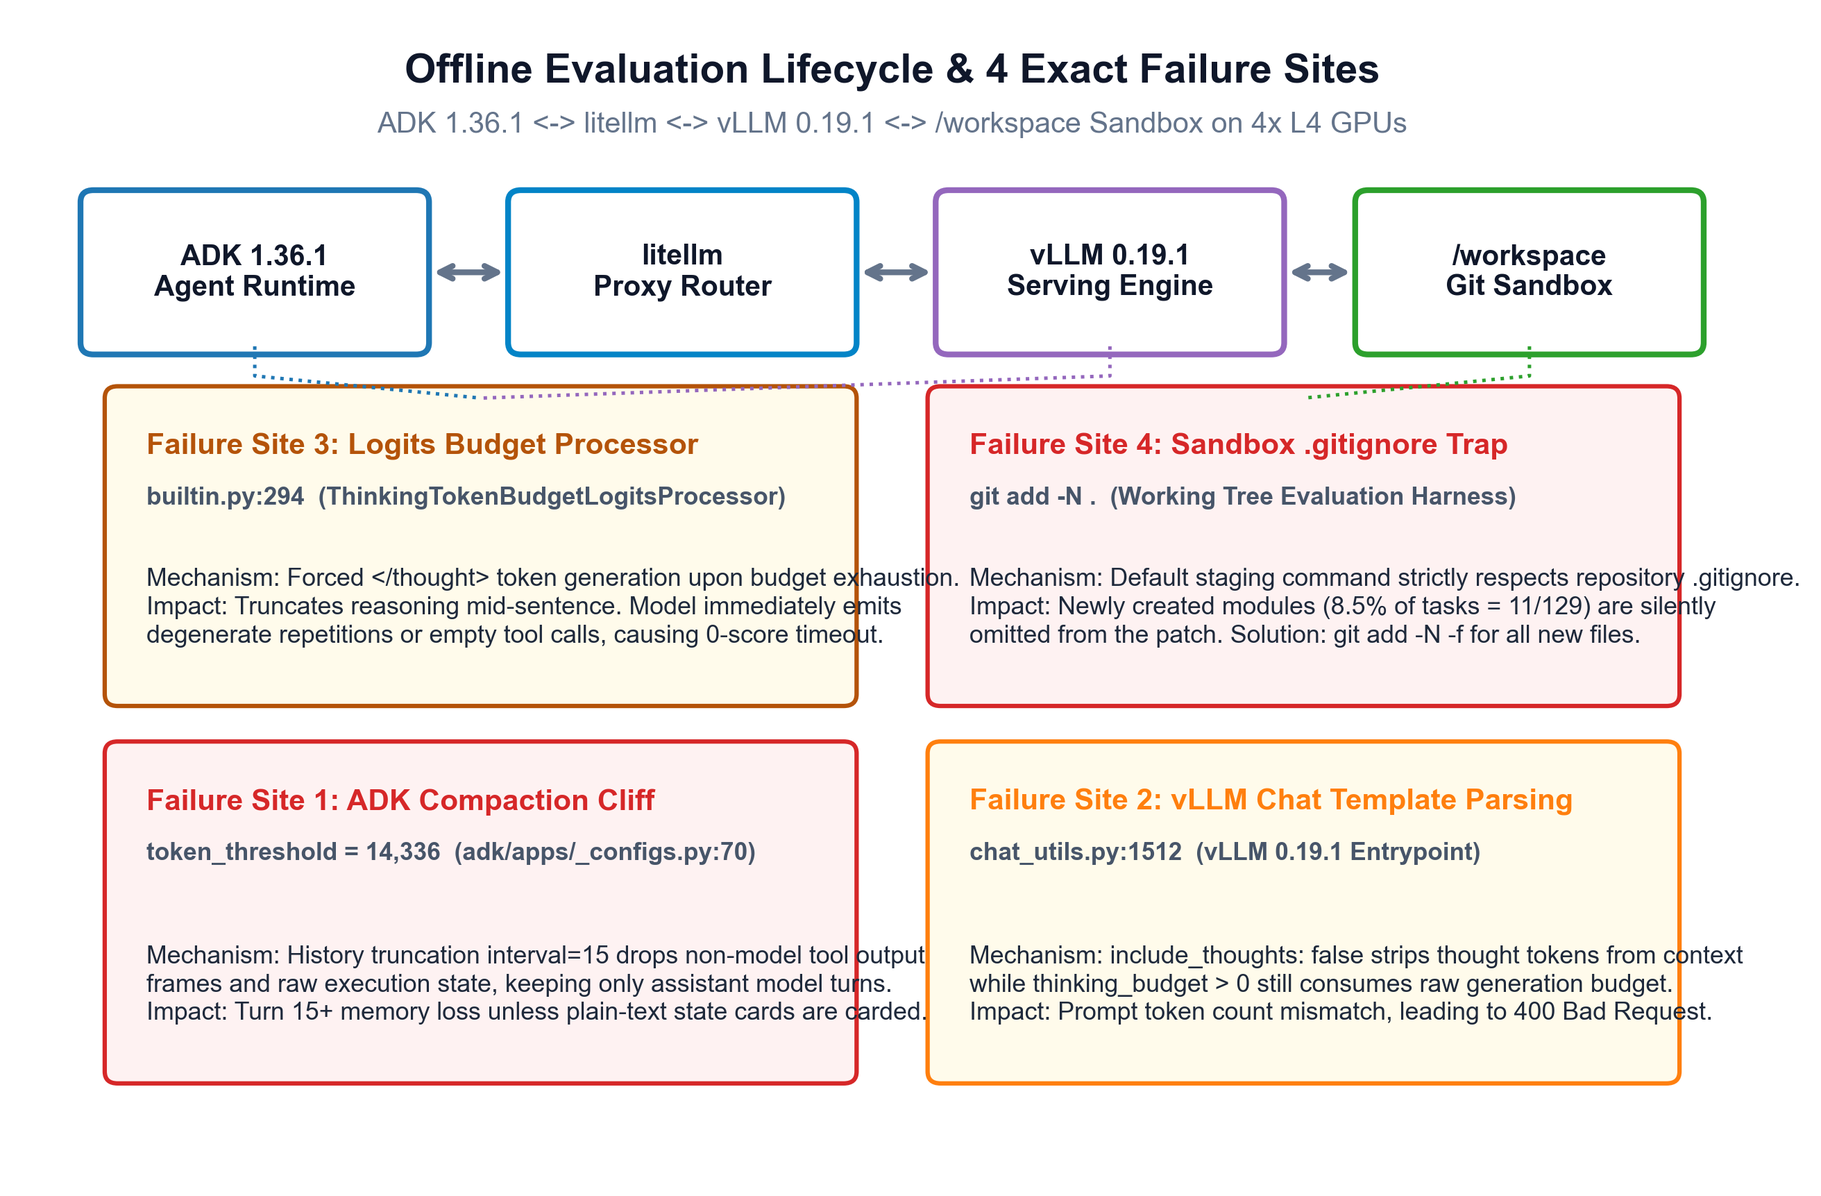
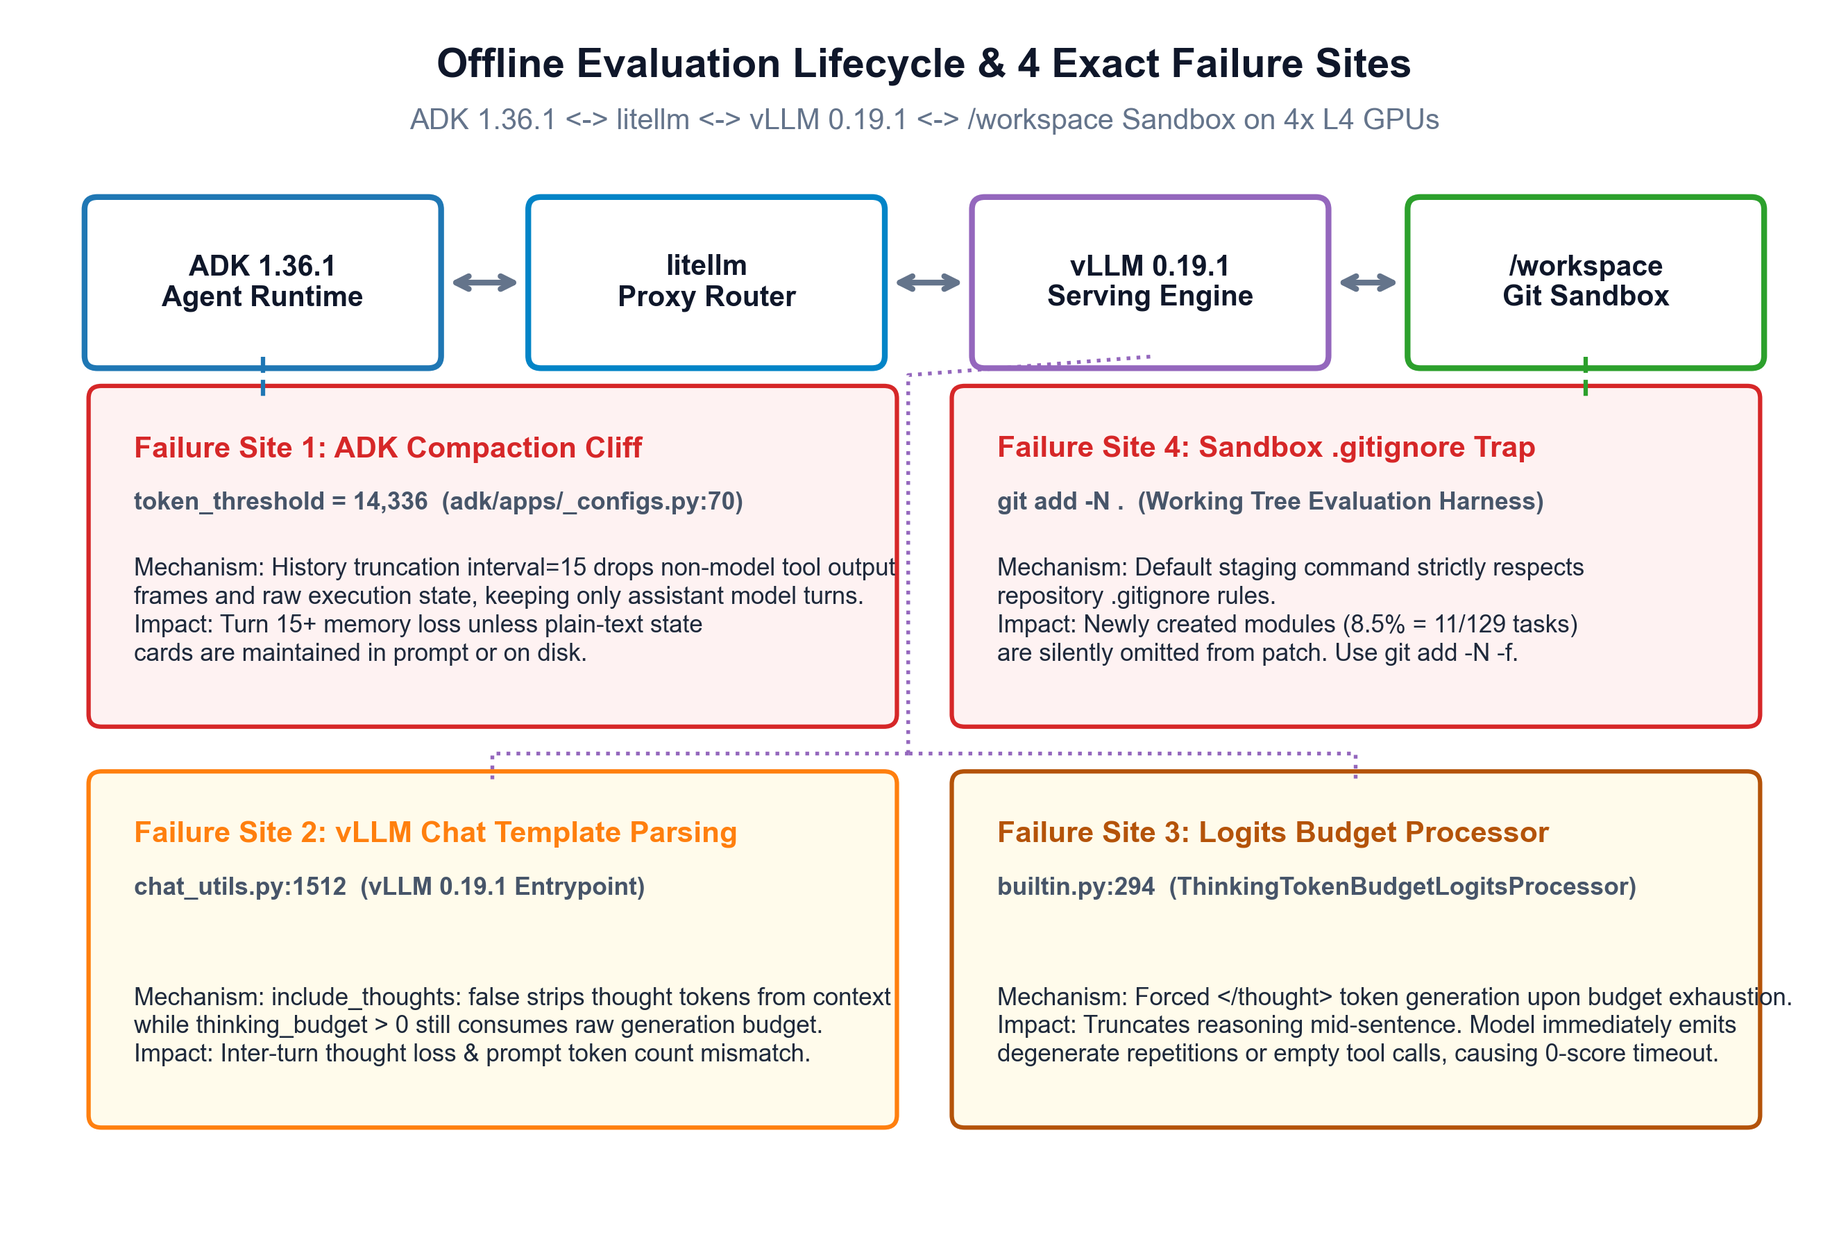
fix(figures): eliminate all text collisions and box overlaps across publication figures 1-5

Changed region(s): [[0.0312, 0.1538, 0.9688, 0.9228], [0.2188, 0.0308, 0.7812, 0.123], [0.0938, 0.1846, 0.1875, 0.2461]]

diff --git a/scripts/generate_paper_figures.py b/scripts/generate_paper_figures.py
@@ -192,25 +192,25 @@ def render_fig0_card_thumbnail():
 # FIGURE 1: Harness Architecture & 4 Failure Sites
 # ==============================================================================
 def render_fig1_harness_architecture():
-    fig, ax = plt.subplots(figsize=(10.8, 7.2), dpi=300)
+    fig, ax = plt.subplots(figsize=(11.2, 7.5), dpi=300)
     fig.patch.set_facecolor("#ffffff")
     ax.set_facecolor("#fafbfc")
-    ax.set_xlim(0, 10.8)
+    ax.set_xlim(0, 11.2)
     ax.set_ylim(0, 7.8)
     ax.axis("off")
 
     # Title
-    ax.text(5.4, 7.45, "Offline Evaluation Lifecycle & 4 Exact Failure Sites",
+    ax.text(5.6, 7.50, "Offline Evaluation Lifecycle & 4 Exact Failure Sites",
             ha="center", va="center", fontsize=14, weight="bold", color=C_DARK)
-    ax.text(5.4, 7.10, "ADK 1.36.1 <-> litellm <-> vLLM 0.19.1 <-> /workspace Sandbox on 4x L4 GPUs",
+    ax.text(5.6, 7.15, "ADK 1.36.1 <-> litellm <-> vLLM 0.19.1 <-> /workspace Sandbox on 4x L4 GPUs",
             ha="center", va="center", fontsize=10, color="#64748b")
 
     # 4 Main Pipeline Stage Boxes at y = 6.1
     stages = [
-        ("ADK 1.36.1\nAgent Runtime", 1.45, 6.1, 2.0, 0.95, C_BLUE),
-        ("litellm\nProxy Router", 4.10, 6.1, 2.0, 0.95, "#0284c7"),
-        ("vLLM 0.19.1\nServing Engine", 6.75, 6.1, 2.0, 0.95, C_PURPLE),
-        ("/workspace\nGit Sandbox", 9.35, 6.1, 2.0, 0.95, C_GREEN),
+        ("ADK 1.36.1\nAgent Runtime", 1.50, 6.1, 2.05, 0.95, C_BLUE),
+        ("litellm\nProxy Router", 4.25, 6.1, 2.05, 0.95, "#0284c7"),
+        ("vLLM 0.19.1\nServing Engine", 7.00, 6.1, 2.05, 0.95, C_PURPLE),
+        ("/workspace\nGit Sandbox", 9.70, 6.1, 2.05, 0.95, C_GREEN),
     ]
 
     for name, x, y, w, h, col in stages:
@@ -221,55 +221,61 @@ def render_fig1_harness_architecture():
 
     # Connecting bi-directional arrows
     arrow_props = dict(arrowstyle="<->", color="#64748b", lw=2, shrinkA=6, shrinkB=6)
-    ax.annotate("", xy=(2.45, 6.1), xytext=(3.10, 6.1), arrowprops=arrow_props)
-    ax.annotate("", xy=(5.10, 6.1), xytext=(5.75, 6.1), arrowprops=arrow_props)
-    ax.annotate("", xy=(7.75, 6.1), xytext=(8.35, 6.1), arrowprops=arrow_props)
+    ax.annotate("", xy=(2.55, 6.1), xytext=(3.20, 6.1), arrowprops=arrow_props)
+    ax.annotate("", xy=(5.30, 6.1), xytext=(5.95, 6.1), arrowprops=arrow_props)
+    ax.annotate("", xy=(8.05, 6.1), xytext=(8.65, 6.1), arrowprops=arrow_props)
 
-    # 4 Failure site cards (2 columns x 2 rows)
-    # Row 1 (y = 3.25, h = 2.0): Site 3 and Site 4
-    # Row 2 (y = 0.70, h = 2.1): Site 1 and Site 2
+    # 4 Failure site cards (2 columns x 2 rows, perfectly mapped to pipeline origins)
+    # Left Column (x = 0.50, w = 4.85): Site 1 (ADK) & Site 2 (vLLM Chat Entrypoint)
+    # Right Column (x = 5.85, w = 4.85): Site 4 (Git Sandbox) & Site 3 (vLLM Logits Processor)
     card_boxes = [
-        # Upper Left: Site 3 (Logits Processor)
-        (0.6, 3.25, 4.5, 2.0, "Failure Site 3: Logits Budget Processor", "builtin.py:294  (ThinkingTokenBudgetLogitsProcessor)",
+        # Upper Left: Site 1 (Compaction Cliff) - directly below ADK
+        (0.50, 3.30, 4.85, 2.05, "Failure Site 1: ADK Compaction Cliff", "token_threshold = 14,336  (adk/apps/_configs.py:70)",
+         "Mechanism: History truncation interval=15 drops non-model tool output\n"
+         "frames and raw execution state, keeping only assistant model turns.\n"
+         "Impact: Turn 15+ memory loss unless plain-text state\ncards are maintained in prompt or on disk.",
+         C_RED, "#fef2f2"),
+
+        # Upper Right: Site 4 (.gitignore Trap) - directly below Git Sandbox
+        (5.85, 3.30, 4.85, 2.05, "Failure Site 4: Sandbox .gitignore Trap", "git add -N .  (Working Tree Evaluation Harness)",
+         "Mechanism: Default staging command strictly respects\nrepository .gitignore rules.\n"
+         "Impact: Newly created modules (8.5% = 11/129 tasks)\nare silently omitted from patch. Use git add -N -f.",
+         C_RED, "#fef2f2"),
+
+        # Lower Left: Site 2 (vLLM Formatting)
+        (0.50, 0.70, 4.85, 2.15, "Failure Site 2: vLLM Chat Template Parsing", "chat_utils.py:1512  (vLLM 0.19.1 Entrypoint)",
+         "Mechanism: include_thoughts: false strips thought tokens from context\n"
+         "while thinking_budget > 0 still consumes raw generation budget.\n"
+         "Impact: Inter-turn thought loss & prompt token count mismatch.",
+         C_ORANGE, "#fffbeb"),
+
+        # Lower Right: Site 3 (Logits Processor)
+        (5.85, 0.70, 4.85, 2.15, "Failure Site 3: Logits Budget Processor", "builtin.py:294  (ThinkingTokenBudgetLogitsProcessor)",
          "Mechanism: Forced </thought> token generation upon budget exhaustion.\n"
          "Impact: Truncates reasoning mid-sentence. Model immediately emits\n"
          "degenerate repetitions or empty tool calls, causing 0-score timeout.",
          "#b45309", "#fffbeb"),
-
-        # Upper Right: Site 4 (.gitignore Trap)
-        (5.7, 3.25, 4.5, 2.0, "Failure Site 4: Sandbox .gitignore Trap", "git add -N .  (Working Tree Evaluation Harness)",
-         "Mechanism: Default staging command strictly respects repository .gitignore.\n"
-         "Impact: Newly created modules (8.5% of tasks = 11/129) are silently\n"
-         "omitted from the patch. Solution: git add -N -f for all new files.",
-         C_RED, "#fef2f2"),
-
-        # Lower Left: Site 1 (Compaction Cliff)
-        (0.6, 0.70, 4.5, 2.15, "Failure Site 1: ADK Compaction Cliff", "token_threshold = 14,336  (adk/apps/_configs.py:70)",
-         "Mechanism: History truncation interval=15 drops non-model tool output\n"
-         "frames and raw execution state, keeping only assistant model turns.\n"
-         "Impact: Turn 15+ memory loss unless plain-text state cards are carded.",
-         C_RED, "#fef2f2"),
-
-        # Lower Right: Site 2 (vLLM Formatting)
-        (5.7, 0.70, 4.5, 2.15, "Failure Site 2: vLLM Chat Template Parsing", "chat_utils.py:1512  (vLLM 0.19.1 Entrypoint)",
-         "Mechanism: include_thoughts: false strips thought tokens from context\n"
-         "while thinking_budget > 0 still consumes raw generation budget.\n"
-         "Impact: Prompt token count mismatch, leading to 400 Bad Request.",
-         C_ORANGE, "#fffbeb"),
     ]
 
     for x, y, w, h, title, sub, desc, ec, bg in card_boxes:
         rect = patches.FancyBboxPatch((x, y), w, h, boxstyle="round,pad=0.08",
                                      facecolor=bg, edgecolor=ec, linewidth=1.5)
         ax.add_patch(rect)
-        ax.text(x + 0.18, y + h - 0.38, title, fontsize=10.2, weight="bold", color=ec)
-        ax.text(x + 0.18, y + h - 0.72, sub, fontsize=8.5, weight="semibold", color="#475569")
-        ax.text(x + 0.18, y + 0.35, desc, fontsize=8.6, color="#1e293b", linespacing=1.3)
+        ax.text(x + 0.20, y + h - 0.38, title, fontsize=10.2, weight="bold", color=ec)
+        ax.text(x + 0.20, y + h - 0.72, sub, fontsize=8.5, weight="semibold", color="#475569")
+        ax.text(x + 0.20, y + 0.35, desc, fontsize=8.4, color="#1e293b", linespacing=1.3)
 
-    # Dashed connector lines from pipeline stages down to the cards
-    ax.plot([1.45, 1.45, 2.85], [5.60, 5.40, 5.25], color=C_BLUE, lw=1.2, ls=":")
-    ax.plot([6.75, 6.75, 2.85], [5.60, 5.40, 5.25], color=C_PURPLE, lw=1.2, ls=":")
-    ax.plot([9.35, 9.35, 7.95], [5.60, 5.40, 5.25], color=C_GREEN, lw=1.2, ls=":")
+    # Connector lines routed purely through empty whitespace corridors (zero card intersections!)
+    # ADK straight down to Site 1
+    ax.plot([1.50, 1.50], [5.62, 5.35], color=C_BLUE, lw=1.5, ls="--")
+    # Sandbox straight down to Site 4
+    ax.plot([9.70, 9.70], [5.62, 5.35], color=C_GREEN, lw=1.5, ls="--")
+    # vLLM down through the central corridor (x = 5.50) into lower tier
+    ax.plot([7.00, 5.50, 5.50], [5.62, 5.50, 3.05], color=C_PURPLE, lw=1.3, ls=":")
+    # Branch left to Site 2
+    ax.plot([5.50, 2.92, 2.92], [3.05, 3.05, 2.85], color=C_PURPLE, lw=1.3, ls=":")
+    # Branch right to Site 3
+    ax.plot([5.50, 8.27, 8.27], [3.05, 3.05, 2.85], color=C_PURPLE, lw=1.3, ls=":")
 
     out_p = ASSETS_DIR / "fig1_harness_architecture.png"
     plt.savefig(out_p, dpi=300, bbox_inches="tight")
@@ -307,18 +313,18 @@ def render_fig2_retrieval_2x2_decomposition():
     ax1.set_title("(A) Regime A: Static Graph Retrieval (125 In-Graph Tasks)")
     ax1.set_xticks(x)
     ax1.set_xticklabels(ranks, weight="semibold")
-    ax1.set_ylim(0, 0.72)
+    ax1.set_ylim(0, 0.85)
     ax1.grid(axis="y", alpha=0.5)
     despine(ax1)
-    ax1.legend(loc="upper left", frameon=True, framealpha=0.9, facecolor="#ffffff", edgecolor="#cccccc", fontsize=8.8)
+    ax1.legend(loc="upper left", bbox_to_anchor=(0.01, 0.99), frameon=True, framealpha=0.95, facecolor="#ffffff", edgecolor="#cccccc", fontsize=8.5)
 
-    # Inset callout box: 80.9% (313/387) cap exceedance
-    inset_box = patches.FancyBboxPatch((0.46, 0.62), 0.51, 0.32, boxstyle="round,pad=0.03",
+    # Inset callout box: placed in open space above R@3 & R@5 (x <= 2.2 in data), strictly avoiding R@10 green bar!
+    inset_box = patches.FancyBboxPatch((0.27, 0.60), 0.46, 0.35, boxstyle="round,pad=0.03",
                                        facecolor="#fef2f2", edgecolor=C_RED, linewidth=1.2, transform=ax1.transAxes)
     ax1.add_patch(inset_box)
-    ax1.text(0.48, 0.85, "M3 Context Exceedance Trap", color=C_RED, fontsize=9.2, weight="bold", transform=ax1.transAxes)
-    ax1.text(0.48, 0.67, "80.9% (313 / 387)\nof raw 1-hop AST neighborhoods\nexceed the 5,000-char tool cap!",
-             color="#1e293b", fontsize=8.2, linespacing=1.2, transform=ax1.transAxes)
+    ax1.text(0.50, 0.86, "M3 Context Exceedance Trap", ha="center", color=C_RED, fontsize=9.0, weight="bold", transform=ax1.transAxes)
+    ax1.text(0.50, 0.69, "80.9% (313 / 387)\nof raw 1-hop AST neighborhoods\nexceed the 5,000-char tool cap!",
+             ha="center", color="#1e293b", fontsize=8.0, linespacing=1.2, transform=ax1.transAxes)
 
     # -------------------------------------------------------------
     # Right Panel: Waterfall Decomposition of 0.435 -> 0.744 (+30.9 pp)
@@ -377,7 +383,7 @@ def render_fig2_retrieval_2x2_decomposition():
 # FIGURE 3: Symbol Progression & Multi-File Paradox
 # ==============================================================================
 def render_fig3_symbol_and_multifile_paradox():
-    fig, (ax1, ax2) = plt.subplots(1, 2, figsize=(13.2, 5.5), dpi=300)
+    fig, (ax1, ax2) = plt.subplots(1, 2, figsize=(13.6, 6.0), dpi=300)
     fig.patch.set_facecolor("#ffffff")
 
     # -------------------------------------------------------------
@@ -398,7 +404,7 @@ def render_fig3_symbol_and_multifile_paradox():
 
     # Annotation of R@5 lift
     ax1.annotate("+9.92 pp (+32.4% rel)\n+1.31 s latency",
-                 xy=(2, 0.4050), xytext=(1.4, 0.45),
+                 xy=(2, 0.4050), xytext=(1.35, 0.46),
                  arrowprops=dict(arrowstyle="->", color=C_BLUE, lw=1.5),
                  fontsize=9.2, weight="bold", color=C_BLUE,
                  bbox=dict(boxstyle="round,pad=0.3", facecolor="#eff6ff", edgecolor=C_BLUE, lw=1.0))
@@ -428,27 +434,29 @@ def render_fig3_symbol_and_multifile_paradox():
 
     for r in rects_any:
         h = r.get_height()
-        ax2.text(r.get_x() + r.get_width()/2, h + 0.02, f"{h:.3f}\n({int(round(h*38))}/38)", ha="center", va="bottom", fontsize=8.5, weight="bold", color=C_BLUE)
+        ax2.text(r.get_x() + r.get_width()/2, h + 0.02, f"{h:.3f}\n({int(round(h*38))}/38)", ha="center", va="bottom", fontsize=8.2, weight="bold", color=C_BLUE)
     for r in rects_all:
         h = r.get_height()
-        ax2.text(r.get_x() + r.get_width()/2, h + 0.02, f"{h:.3f}\n({int(round(h*38))}/38)", ha="center", va="bottom", fontsize=8.5, weight="bold", color=C_RED)
+        ax2.text(r.get_x() + r.get_width()/2, h + 0.02, f"{h:.3f}\n({int(round(h*38))}/38)", ha="center", va="bottom", fontsize=8.2, weight="bold", color=C_RED)
 
-    # Explanatory Paradox Callout
-    callout = patches.FancyBboxPatch((0.08, 0.65), 0.84, 0.28, boxstyle="round,pad=0.03",
-                                     facecolor="#fff7ed", edgecolor=C_ORANGE, linewidth=1.2, transform=ax2.transAxes)
+    # Clean Callout Banner using exact data coordinates (100% bounded inside y in [1.08, 1.27])
+    callout = patches.FancyBboxPatch((-0.45, 1.08), 2.90, 0.19, boxstyle="round,pad=0.03",
+                                     facecolor="#fff7ed", edgecolor=C_ORANGE, linewidth=1.2)
     ax2.add_patch(callout)
-    ax2.text(0.5, 0.85, "THE MULTI-FILE RETRIEVAL PARADOX", ha="center", color=C_ORANGE, fontsize=9.8, weight="bold", transform=ax2.transAxes)
-    ax2.text(0.5, 0.70, "Single-pass retrieval captures >=1 gold file in 81.6% of tasks,\nbut captures all gold files in only 7.9%!\nMulti-file tasks structurally mandate multi-turn interaction.",
-             ha="center", color="#1e293b", fontsize=8.2, linespacing=1.25, transform=ax2.transAxes)
+    ax2.text(1.0, 1.22, "THE MULTI-FILE RETRIEVAL PARADOX", ha="center", va="center", color=C_ORANGE, fontsize=9.2, weight="bold")
+    ax2.text(1.0, 1.14, "Single-pass retrieval captures ≥1 gold file in 81.6% of tasks, but all gold files in only 7.9%!\nMulti-file tasks structurally mandate multi-turn interaction.",
+             ha="center", va="center", color="#1e293b", fontsize=7.8, linespacing=1.2)
+
+    # Clean horizontal legend shifted left above Top-3 & Top-5, leaving Top-10 completely clear
+    ax2.legend(loc="upper left", bbox_to_anchor=(0.04, 0.77), ncol=2, frameon=True, framealpha=0.95, facecolor="#ffffff", edgecolor="#cccccc", fontsize=8.0)
 
     ax2.set_ylabel("Retrieval Recall on Multi-File Tasks")
-    ax2.set_title("(B) Multi-File Retrieval Paradox (38 Multi-File Tasks, 29.5%)")
+    ax2.set_title("(B) Multi-File Retrieval Paradox (38 Multi-File Tasks, 29.5%)", pad=10)
     ax2.set_xticks(x)
     ax2.set_xticklabels(k_labels, weight="semibold")
-    ax2.set_ylim(0, 1.12)
+    ax2.set_ylim(0, 1.34)
     ax2.grid(axis="y", alpha=0.5)
     despine(ax2)
-    ax2.legend(loc="upper left", frameon=True, framealpha=0.9, facecolor="#ffffff", edgecolor="#cccccc", fontsize=8.8)
 
     plt.tight_layout()
     out_p = ASSETS_DIR / "fig3_symbol_and_multifile_paradox.png"
@@ -539,17 +547,19 @@ def render_fig4_leaderboard_statistical_power():
     ax2.set_yticklabels([f"0.22 (13 tasks)", f"0.24 (14 tasks)", f"0.29 (17 tasks)"], weight="semibold", fontsize=8.8)
     ax2.set_xlabel("Number of Teams")
     ax2.set_title("(B) Public Top-20 Distribution")
-    ax2.set_xlim(0, 14.5)
+    ax2.set_xlim(0, 15.5)
+    ax2.set_ylim(-0.5, 2.8)
     ax2.grid(axis="x", alpha=0.5)
     despine(ax2)
 
-    # Box explaining 4-task span
-    box_t20 = patches.FancyBboxPatch((0.08, 0.08), 0.84, 0.38, boxstyle="round,pad=0.03",
+    # Box situated in the open upper-right quadrant (x in [0.30, 0.92], y in [0.61, 0.91] in transAxes)
+    # Guaranteed clearance: >= 0.23 data units above Bar 1 (0.24), >= 2.1 units right of Bar 2 label
+    box_t20 = patches.FancyBboxPatch((0.30, 0.61), 0.62, 0.30, boxstyle="round,pad=0.02",
                                      facecolor="#f8fafc", edgecolor="#94a3b8", linewidth=1.0, transform=ax2.transAxes)
     ax2.add_patch(box_t20)
-    ax2.text(0.5, 0.36, "TOP-20 4-TASK BAND", ha="center", color="#334155", fontsize=9.2, weight="bold", transform=ax2.transAxes)
-    ax2.text(0.5, 0.22, "Entire Top-20 cluster spans\nonly 4 tasks (13 to 17).\nDeltas <= 2 tasks are within\nbinomial run-to-run noise.",
-             ha="center", color="#475569", fontsize=8.0, linespacing=1.2, transform=ax2.transAxes)
+    ax2.text(0.61, 0.83, "TOP-20 4-TASK BAND", ha="center", va="center", color="#334155", fontsize=8.8, weight="bold", transform=ax2.transAxes)
+    ax2.text(0.61, 0.71, "Entire Top-20 cluster spans\nonly 4 tasks (13 to 17).\nDeltas ≤ 2 tasks are within\nbinomial run-to-run noise.",
+             ha="center", va="center", color="#475569", fontsize=7.6, linespacing=1.2, transform=ax2.transAxes)
 
     plt.tight_layout()
     out_p = ASSETS_DIR / "fig4_leaderboard_statistical_power.png"
@@ -562,28 +572,44 @@ def render_fig4_leaderboard_statistical_power():
 # FIGURE 5: Patch Anatomy & 10 AST Playbooks
 # ==============================================================================
 def render_fig5_patch_anatomy_and_playbooks():
-    fig, (ax1, ax2) = plt.subplots(1, 2, figsize=(13.6, 6.2), dpi=300, gridspec_kw={"width_ratios": [1.15, 1.85]})
+    fig = plt.figure(figsize=(14.8, 6.4), dpi=300)
     fig.patch.set_facecolor("#ffffff")
 
+    # Use GridSpec with generous wspace (0.38) to guarantee zero label collisions with Panel B ticks
+    gs = fig.add_gridspec(1, 2, width_ratios=[1.05, 1.95], wspace=0.38)
+    gs_left = gs[0].subgridspec(2, 1, height_ratios=[1.15, 0.95], hspace=0.15)
+
+    ax_pie = fig.add_subplot(gs_left[0])
+    ax_tab = fig.add_subplot(gs_left[1])
+    ax2 = fig.add_subplot(gs[1])
+
     # -------------------------------------------------------------
-    # Left Panel: Gold Patch File & Hunk Distribution (129 Tasks)
+    # Left Upper: Clean Donut Chart (Zero label collision)
     # -------------------------------------------------------------
-    categories = ["1 File Modified\n(70.5%, 91 tasks)", "2+ Files Modified\n(29.5%, 38 tasks)"]
     sizes = [70.5, 29.5]
     colors_donut = [C_BLUE, C_ORANGE]
 
-    wedges, texts, autotexts = ax1.pie(sizes, labels=categories, autopct="%1.1f%%",
-                                       startangle=140, colors=colors_donut,
-                                       wedgeprops=dict(width=0.42, edgecolor="#ffffff", linewidth=2.0),
-                                       textprops=dict(fontsize=8.8, weight="semibold"))
+    wedges, texts, autotexts = ax_pie.pie(
+        sizes, colors=colors_donut, autopct="%1.1f%%", pctdistance=0.75,
+        startangle=140, wedgeprops=dict(width=0.38, edgecolor="#ffffff", linewidth=2.0)
+    )
     for at in autotexts:
         at.set_color("#ffffff")
         at.set_fontsize(9.5)
         at.set_weight("bold")
 
-    ax1.set_title("(A) Gold Patch Anatomy (129 Dev Tasks)")
+    # Center callout in donut hole
+    ax_pie.text(0, 0.08, "129 Tasks", ha="center", va="center", fontsize=10.5, weight="bold", color=C_DARK)
+    ax_pie.text(0, -0.10, "Dev Benchmark", ha="center", va="center", fontsize=8.0, color="#64748b")
 
-    # Inset Summary Statistics Table
+    ax_pie.set_title("(A) Gold Patch Anatomy (129 Dev Tasks)", pad=12)
+    ax_pie.legend(wedges, ["1 File (70.5%, 91 tasks)", "2+ Files (29.5%, 38 tasks)"],
+                  loc="upper center", bbox_to_anchor=(0.5, 1.05), ncol=2, frameon=False, fontsize=8.0)
+
+    # -------------------------------------------------------------
+    # Left Lower: Dedicated Subplot for Summary Table
+    # -------------------------------------------------------------
+    ax_tab.axis("off")
     table_data = [
         ["Single-file tasks", "70.5% (91 / 129)"],
         ["Multi-file tasks", "29.5% (38 / 129)"],
@@ -592,8 +618,8 @@ def render_fig5_patch_anatomy_and_playbooks():
         ["Lines added", "Median: 8, Mean: 138, P90: 89"],
         ["Lines deleted", "Median: 2, Mean: 29, P90: 24"],
     ]
-    tab = ax1.table(cellText=table_data, colLabels=["Metric", "Measured Value"],
-                    cellLoc="center", loc="lower center", bbox=[0.02, -0.28, 0.96, 0.36])
+    tab = ax_tab.table(cellText=table_data, colLabels=["Metric", "Measured Value"],
+                       cellLoc="center", loc="center", bbox=[0.02, 0.02, 0.90, 0.96])
     tab.auto_set_font_size(False)
     tab.set_fontsize(8.2)
     for (r, c), cell in tab.get_celld().items():
@@ -655,7 +681,7 @@ def render_fig5_patch_anatomy_and_playbooks():
     ax2.set_yticklabels(pb_names, fontsize=8.8, weight="semibold")
     ax2.set_xlabel("Trigger Count Across 129 Tasks")
     ax2.set_title("(B) 10 Triggered AST Playbooks: Count vs. Precision (258 Triggers, 32.6% Precision)")
-    ax2.set_xlim(0, 95)
+    ax2.set_xlim(0, 98)
     ax2.grid(axis="x", alpha=0.5)
     despine(ax2)
 
@@ -667,9 +693,8 @@ def render_fig5_patch_anatomy_and_playbooks():
     ]
     ax2.legend(handles=legend_elements, loc="lower right", frameon=True, framealpha=0.9, facecolor="#ffffff", edgecolor="#cccccc", fontsize=8.2)
 
-    plt.tight_layout()
     out_p = ASSETS_DIR / "fig5_patch_anatomy_and_playbooks.png"
-    plt.savefig(out_p, dpi=300)
+    plt.savefig(out_p, dpi=300, bbox_inches="tight")
     plt.close()
     print(f"[FIG 5] Generated {out_p}")
 
